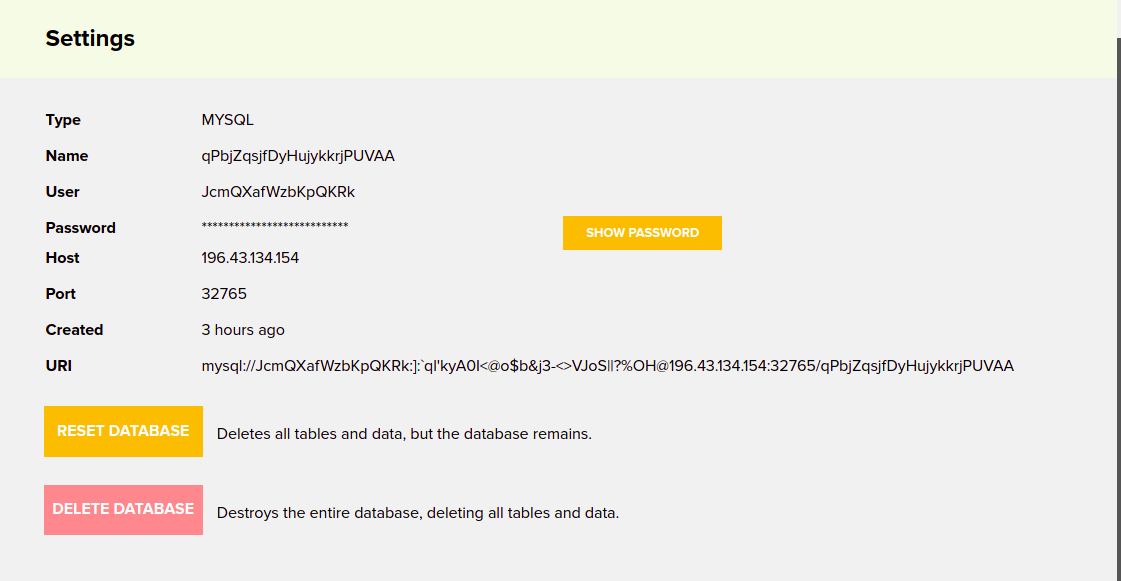
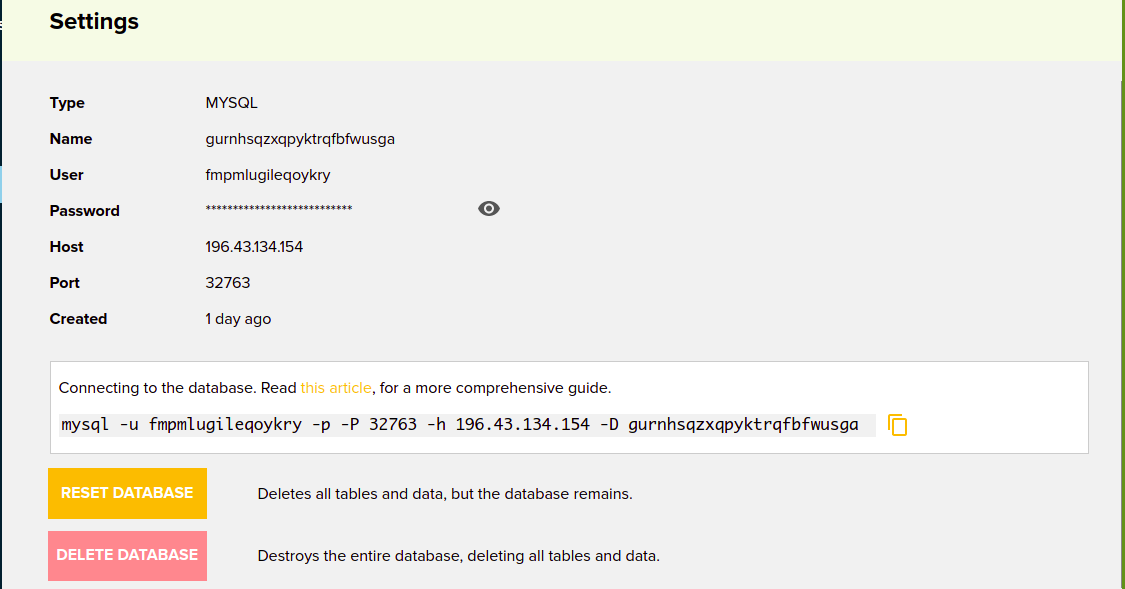
Add provision for db instructions

diff --git a/cranecloud/docs/databases/database.md b/cranecloud/docs/databases/database.md
@@ -27,7 +27,9 @@ Crane Cloud supports database as a service and this is done in just a few clicks
 ![](../img/db_error.png) 
 
 7. To access a particular database, click on the database card to drill in.
+![](../img/single_db.png)
 
+8. You can read instructions on how to access your newly created database as well as the provision to copy database credentials.
 
 ## Reseting A Database
 
